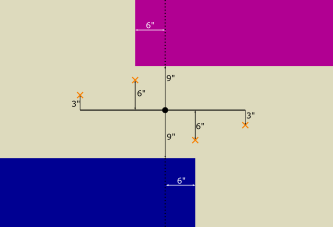
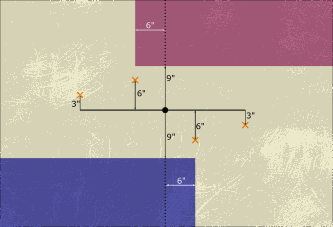
Added Objective Tables to missions Updated diagrams, now looking snazzy!

diff --git a/src/app/primary-mission/primary-mission.component.html b/src/app/primary-mission/primary-mission.component.html
@@ -4,30 +4,42 @@
       
         <h3>Primary Mission: {{ selectedPrimaryMission.Name }}({{ selectedPrimaryMission.PrimaryObjective.Type }}) <button class="btn btn-danger" (click)="cancelPrimaryMission()">Cancel</button></h3>
         <div class="row">
-        
-        <ul class="col-8">
-          <li class="card-text" *ngFor="let objItm of selectedPrimaryMission.PrimaryObjective.ObjectiveList">{{ objItm }}</li>
-        </ul>
-        <img *ngIf="selectedPrimaryMission.MissionMap" src='{{ "/assets/images/" + selectedPrimaryMission.MissionMap }}' class="img col-4"/>
+          <div class="col-6">
+            <div *ngIf="selectedPrimaryMission.MissionRules">
+              <h4>Mission Rules</h4>
+              <p><strong>{{ selectedPrimaryMission.MissionsRules.Name }}:</strong> {{ selectedPrimaryMission.MissionRules.Rule }}</p>
+            </div>
+            <p>At the beginning of each player's Command phase, the player whose turn it is scores 5 victory points for each of the following conditions they satisfay (for a maximum of 15 victory points):</p>
+            <ul>
+              <li class="card-text" *ngFor="let objItm of selectedPrimaryMission.PrimaryObjective.ObjectiveList">{{ objItm }}</li>
+            </ul>
+            <p>This primary mission cannot be scored in the first battle round.</p>
+          </div>
+          <img *ngIf="selectedPrimaryMission.MissionMap" src='{{ "/assets/images/" + selectedPrimaryMission.MissionMap }}' class="img col-6"/>
       </div>
     </div>
   <ng-template #primaryMissionSelector>
-      <h3>Primary Mission</h3>
-      <div class="card-group">
-        <div class="card border-info" *ngFor="let pm of validPrimaryMissions">
-          <div class="card-title card-header">
-            <h4>{{ pm.Name }}</h4>
+    <h3>Primary Mission</h3>
+    <div class="card-group">
+      <div *ngFor="let pm of validPrimaryMissions" class="card border-info">
+        <div class="card-title card-header">
+          <h4>{{ pm.Name }}</h4>
+        </div>
+        <img *ngIf="pm.MissionMap" src='{{ "/assets/images/" + pm.MissionMap }}' class="img" />
+        <div class="card-body text-info">
+          <div *ngIf="pm.MissionRules">
+            <h5>Mission Rules</h5>
+            <p><strong>{{ pm.MissionRules.Name }}:</strong> {{ pm.MissionRules.Rule }}</p>
           </div>
-          <img *ngIf="pm.MissionMap" src='{{ "/assets/images/" + pm.MissionMap }}' class="img" />
-          <div class="card-body text-info">
-            <p class="card-text">{{ pm.PrimaryObjective.Name }}({{ pm.PrimaryObjective.Type }})</p>
-            <ul>
-              <li class="card-text" *ngFor="let objItm of pm.PrimaryObjective.ObjectiveList">{{ objItm }}</li>
-            </ul>
-            <button class="btn btn-primary" (click)="setPrimaryMission(pm)">Choose {{ pm.Name }}</button>
-          </div>
+          <p class="card-text"><strong>{{ pm.PrimaryObjective.Name }} ({{ pm.PrimaryObjective.Type }}): </strong></p>
+          <p>At the beginning of each player's Command phase, the player whose turn it is scores 5 victory points for each of the following conditions they satisfay (for a maximum of 15 victory points):</p>
+          <ul>
+            <li class="card-text" *ngFor="let objItm of pm.PrimaryObjective.ObjectiveList">{{ objItm }}</li>
+          </ul>
+          <p>This primary mission cannot be scored in the first battle round.</p>
+          <button class="btn btn-primary" (click)="setPrimaryMission(pm)">Choose {{ pm.Name }}</button>
         </div>
       </div>
-    
+    </div>
   </ng-template>
 </div>

diff --git a/src/app/secondary-feature/secondary-feature.component.html b/src/app/secondary-feature/secondary-feature.component.html
@@ -12,5 +12,15 @@
   <p class="card-subtitle"><strong>Type: </strong>{{ secondaryMission.Type }}</p>
   <p class="card-text"><strong>Objective: </strong>{{ secondaryMission.ObjectiveList[0] }}</p>
   <p class="card-text" *ngIf="secondaryMission.Action"><strong>{{ secondaryMission.Action.Name }}:</strong> {{ secondaryMission.Action.Action }}</p>
+  <table *ngIf="secondaryMission.ObjectiveTable" class="table">
+    <thead>
+      <th *ngFor="let s of secondaryMission.ObjectiveTable.Headings">{{s}}</th>
+    </thead>
+    <tbody>
+      <tr *ngFor="let row of secondaryMission.ObjectiveTable.Rows">
+        <td *ngFor="let d of row">{{ d }}</td>
+      </tr>
+    </tbody>
+  </table>
 </div>
 

diff --git a/src/app/models/objective.ts b/src/app/models/objective.ts
@@ -9,6 +9,6 @@ export class Objective {
     ObjectiveTable?: {
         Path?:string
         Headings?: string[],
-        Rows?: string[]
+        Rows?: string[][]
     }
 }
